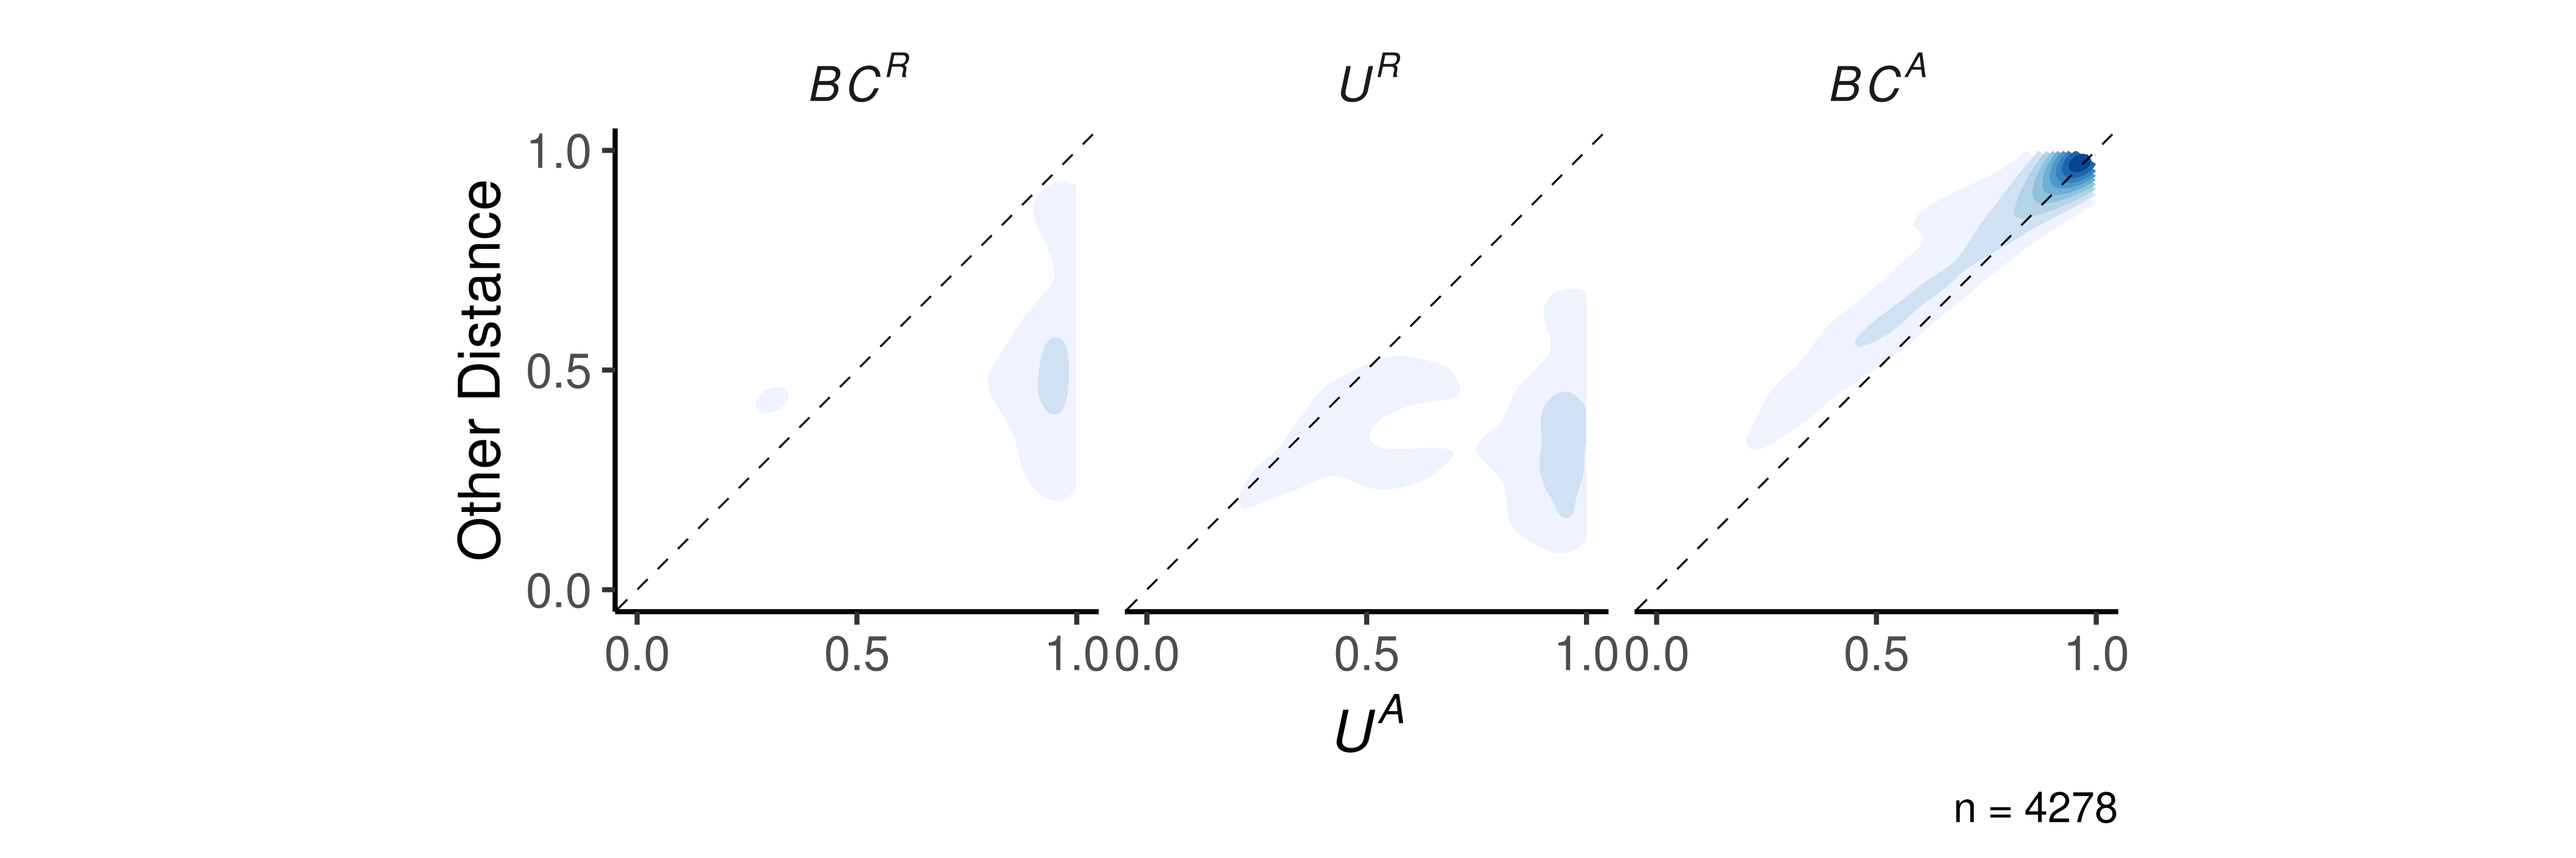
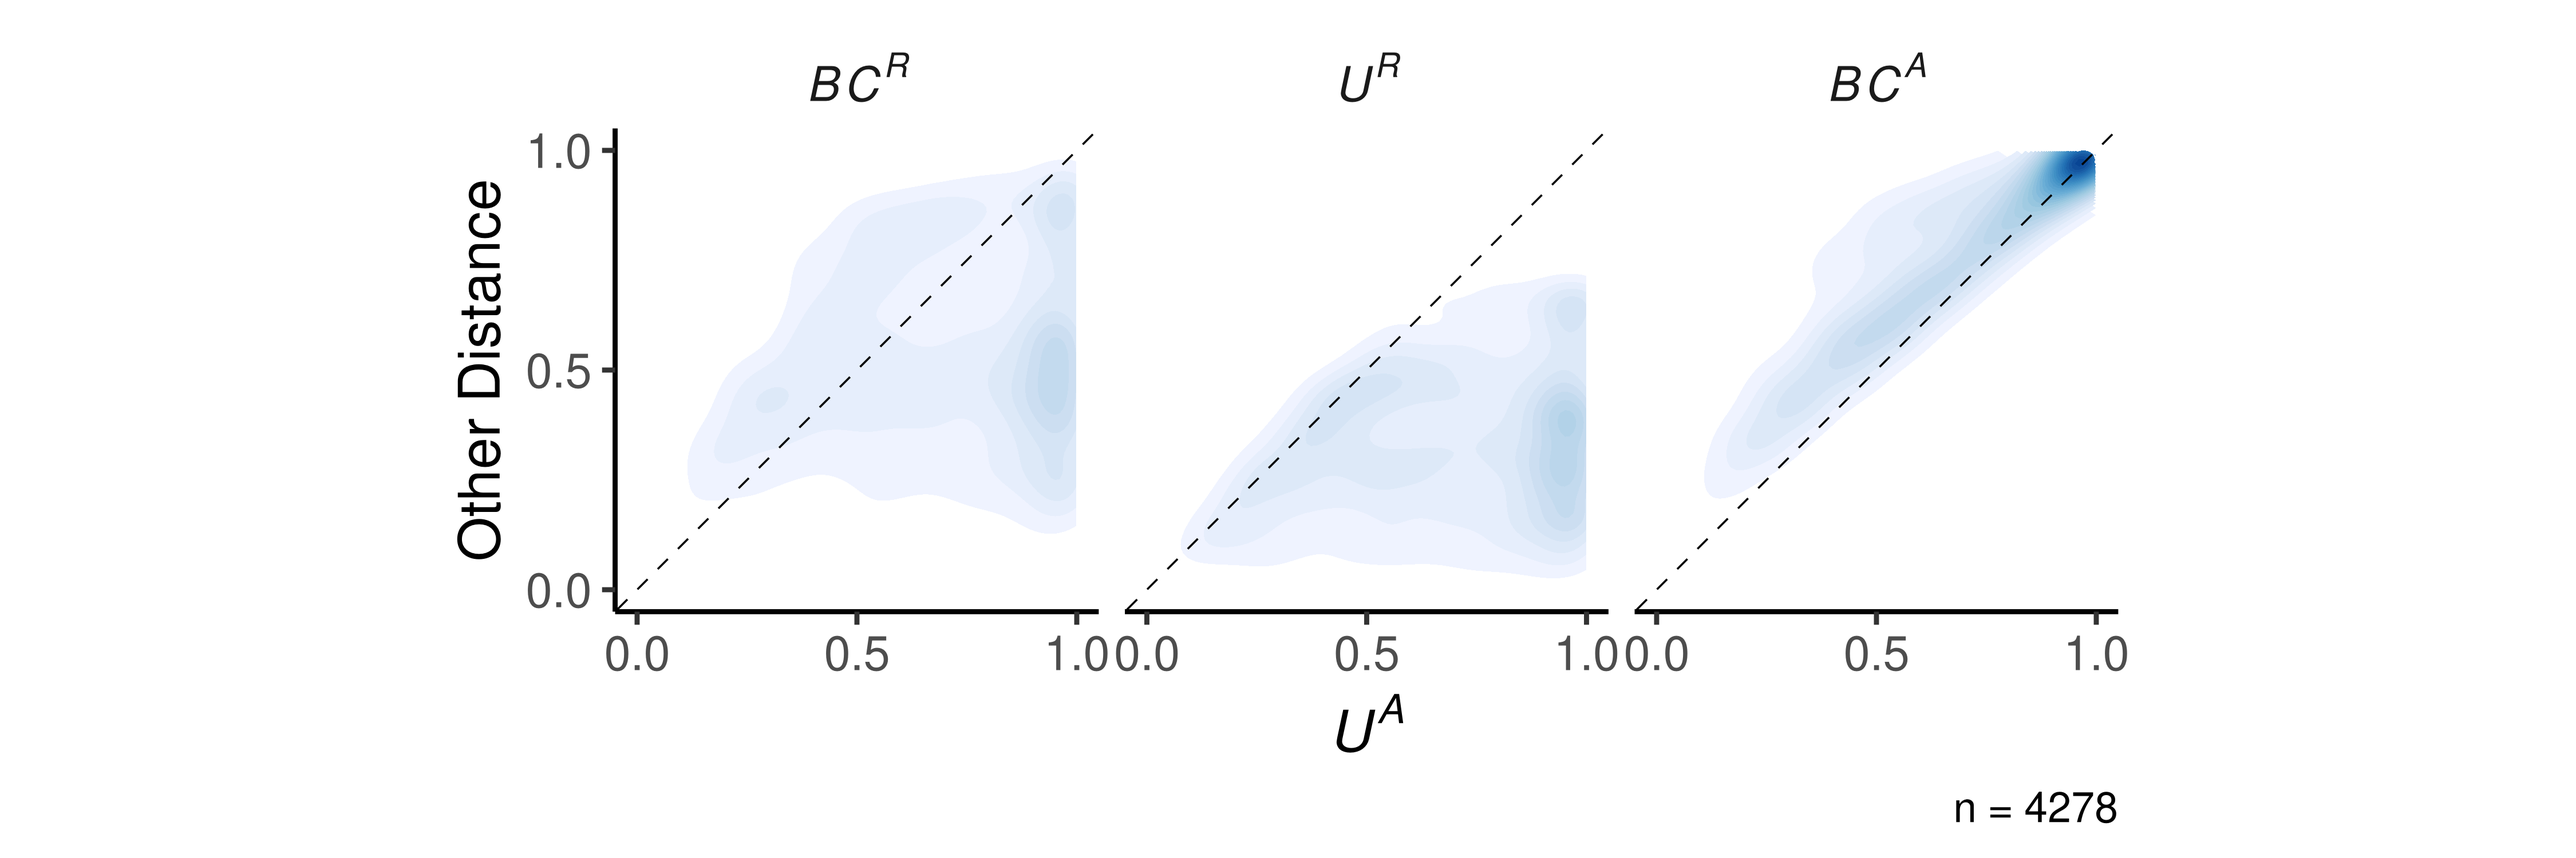
Fixing barlow fig2 panel

diff --git a/barlow_reanalysis/03_Barlow_BetaDiversity.html b/barlow_reanalysis/03_Barlow_BetaDiversity.html
@@ -316,7 +316,7 @@ Attaching package: 'extraDistr'</code></pre>
 <span id="cb12-8"><a href="#cb12-8" aria-hidden="true" tabindex="-1"></a>  <span class="fu">ggplot</span>(<span class="fu">aes</span>(<span class="at">x =</span> ua, <span class="at">y =</span> other_dist)) <span class="sc">+</span> </span>
 <span id="cb12-9"><a href="#cb12-9" aria-hidden="true" tabindex="-1"></a>  <span class="fu">stat_density_2d</span>(<span class="at">geom =</span> <span class="st">"polygon"</span>, <span class="at">contour =</span> <span class="cn">TRUE</span>,</span>
 <span id="cb12-10"><a href="#cb12-10" aria-hidden="true" tabindex="-1"></a>                  <span class="fu">aes</span>(<span class="at">fill =</span> <span class="fu">after_stat</span>(level)),</span>
-<span id="cb12-11"><a href="#cb12-11" aria-hidden="true" tabindex="-1"></a>                  <span class="at">bins =</span> <span class="dv">10</span>) <span class="sc">+</span></span>
+<span id="cb12-11"><a href="#cb12-11" aria-hidden="true" tabindex="-1"></a>                  <span class="at">bins =</span> <span class="dv">30</span>) <span class="sc">+</span></span>
 <span id="cb12-12"><a href="#cb12-12" aria-hidden="true" tabindex="-1"></a>  <span class="fu">scale_fill_distiller</span>(<span class="at">palette =</span> <span class="st">"Blues"</span>, <span class="at">direction =</span> <span class="dv">1</span>) <span class="sc">+</span> </span>
 <span id="cb12-13"><a href="#cb12-13" aria-hidden="true" tabindex="-1"></a>  <span class="fu">facet_wrap</span>(<span class="sc">~</span>dist_name, <span class="at">labeller =</span> label_parsed) <span class="sc">+</span> </span>
 <span id="cb12-14"><a href="#cb12-14" aria-hidden="true" tabindex="-1"></a>  <span class="fu">geom_abline</span>(<span class="at">slope =</span> <span class="dv">1</span>, <span class="at">intercept =</span> <span class="dv">0</span>, <span class="at">linetype =</span> <span class="dv">2</span>, <span class="at">linewidth =</span> <span class="fl">0.2</span>) <span class="sc">+</span> </span>
